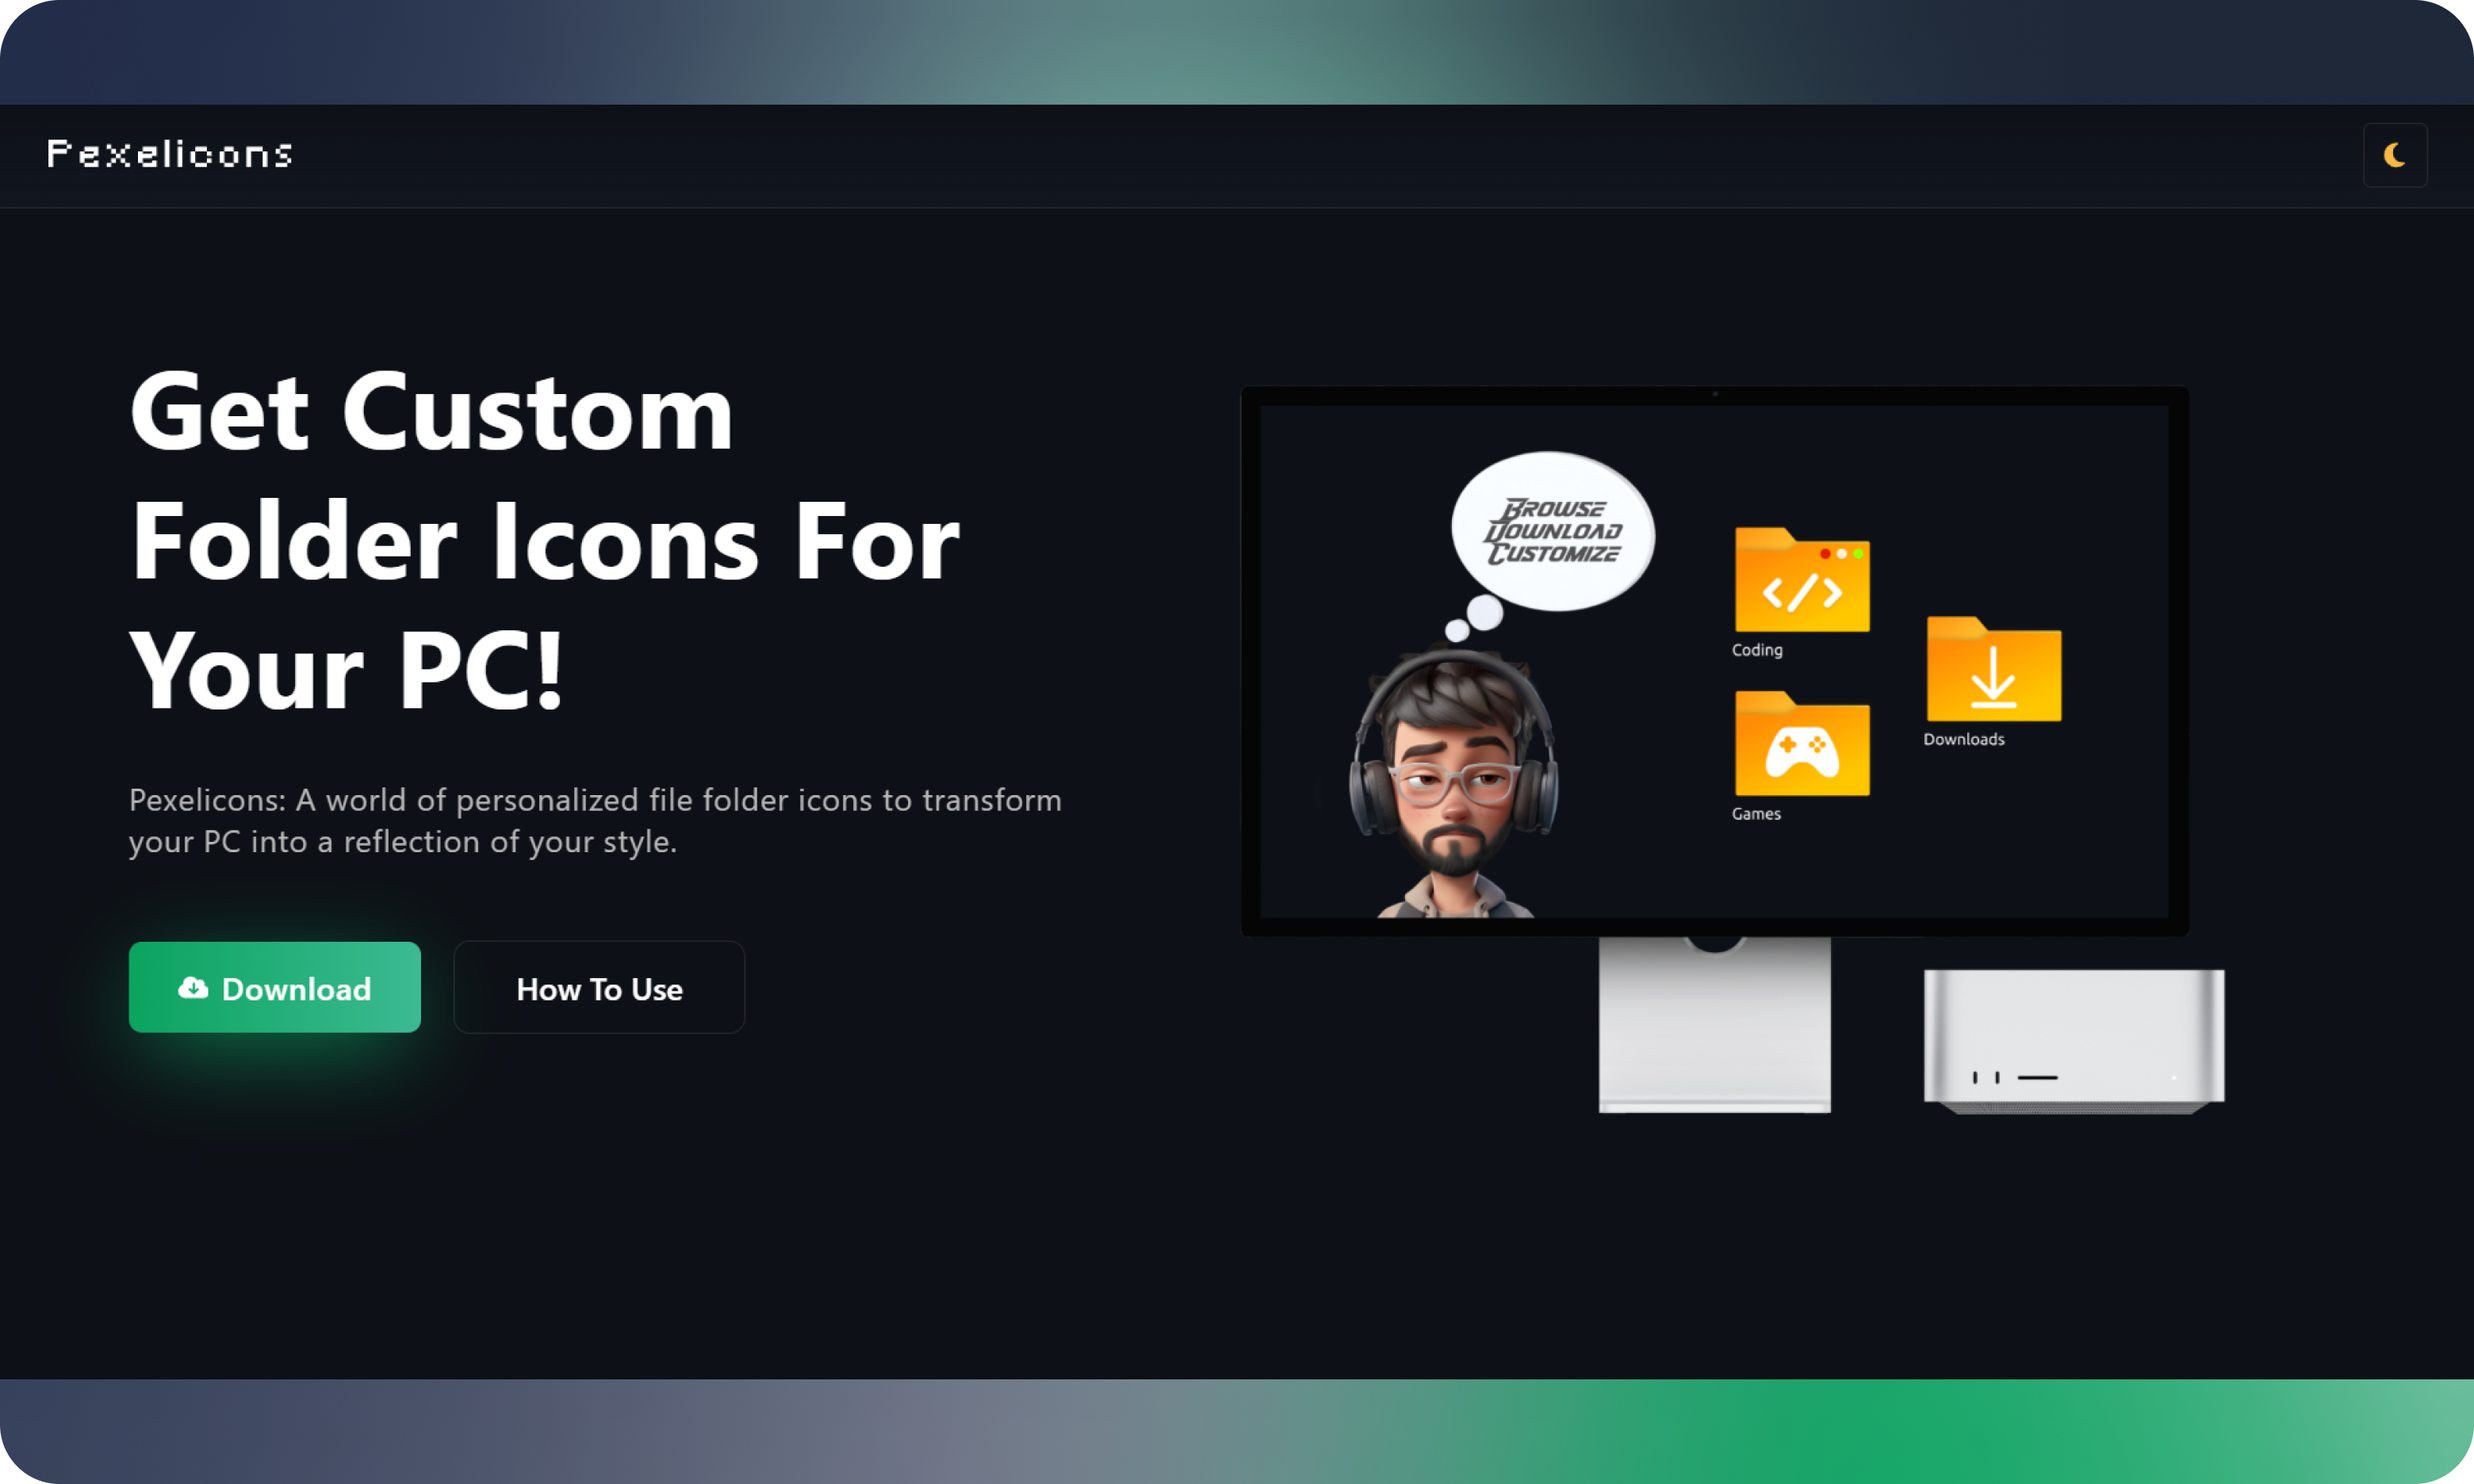
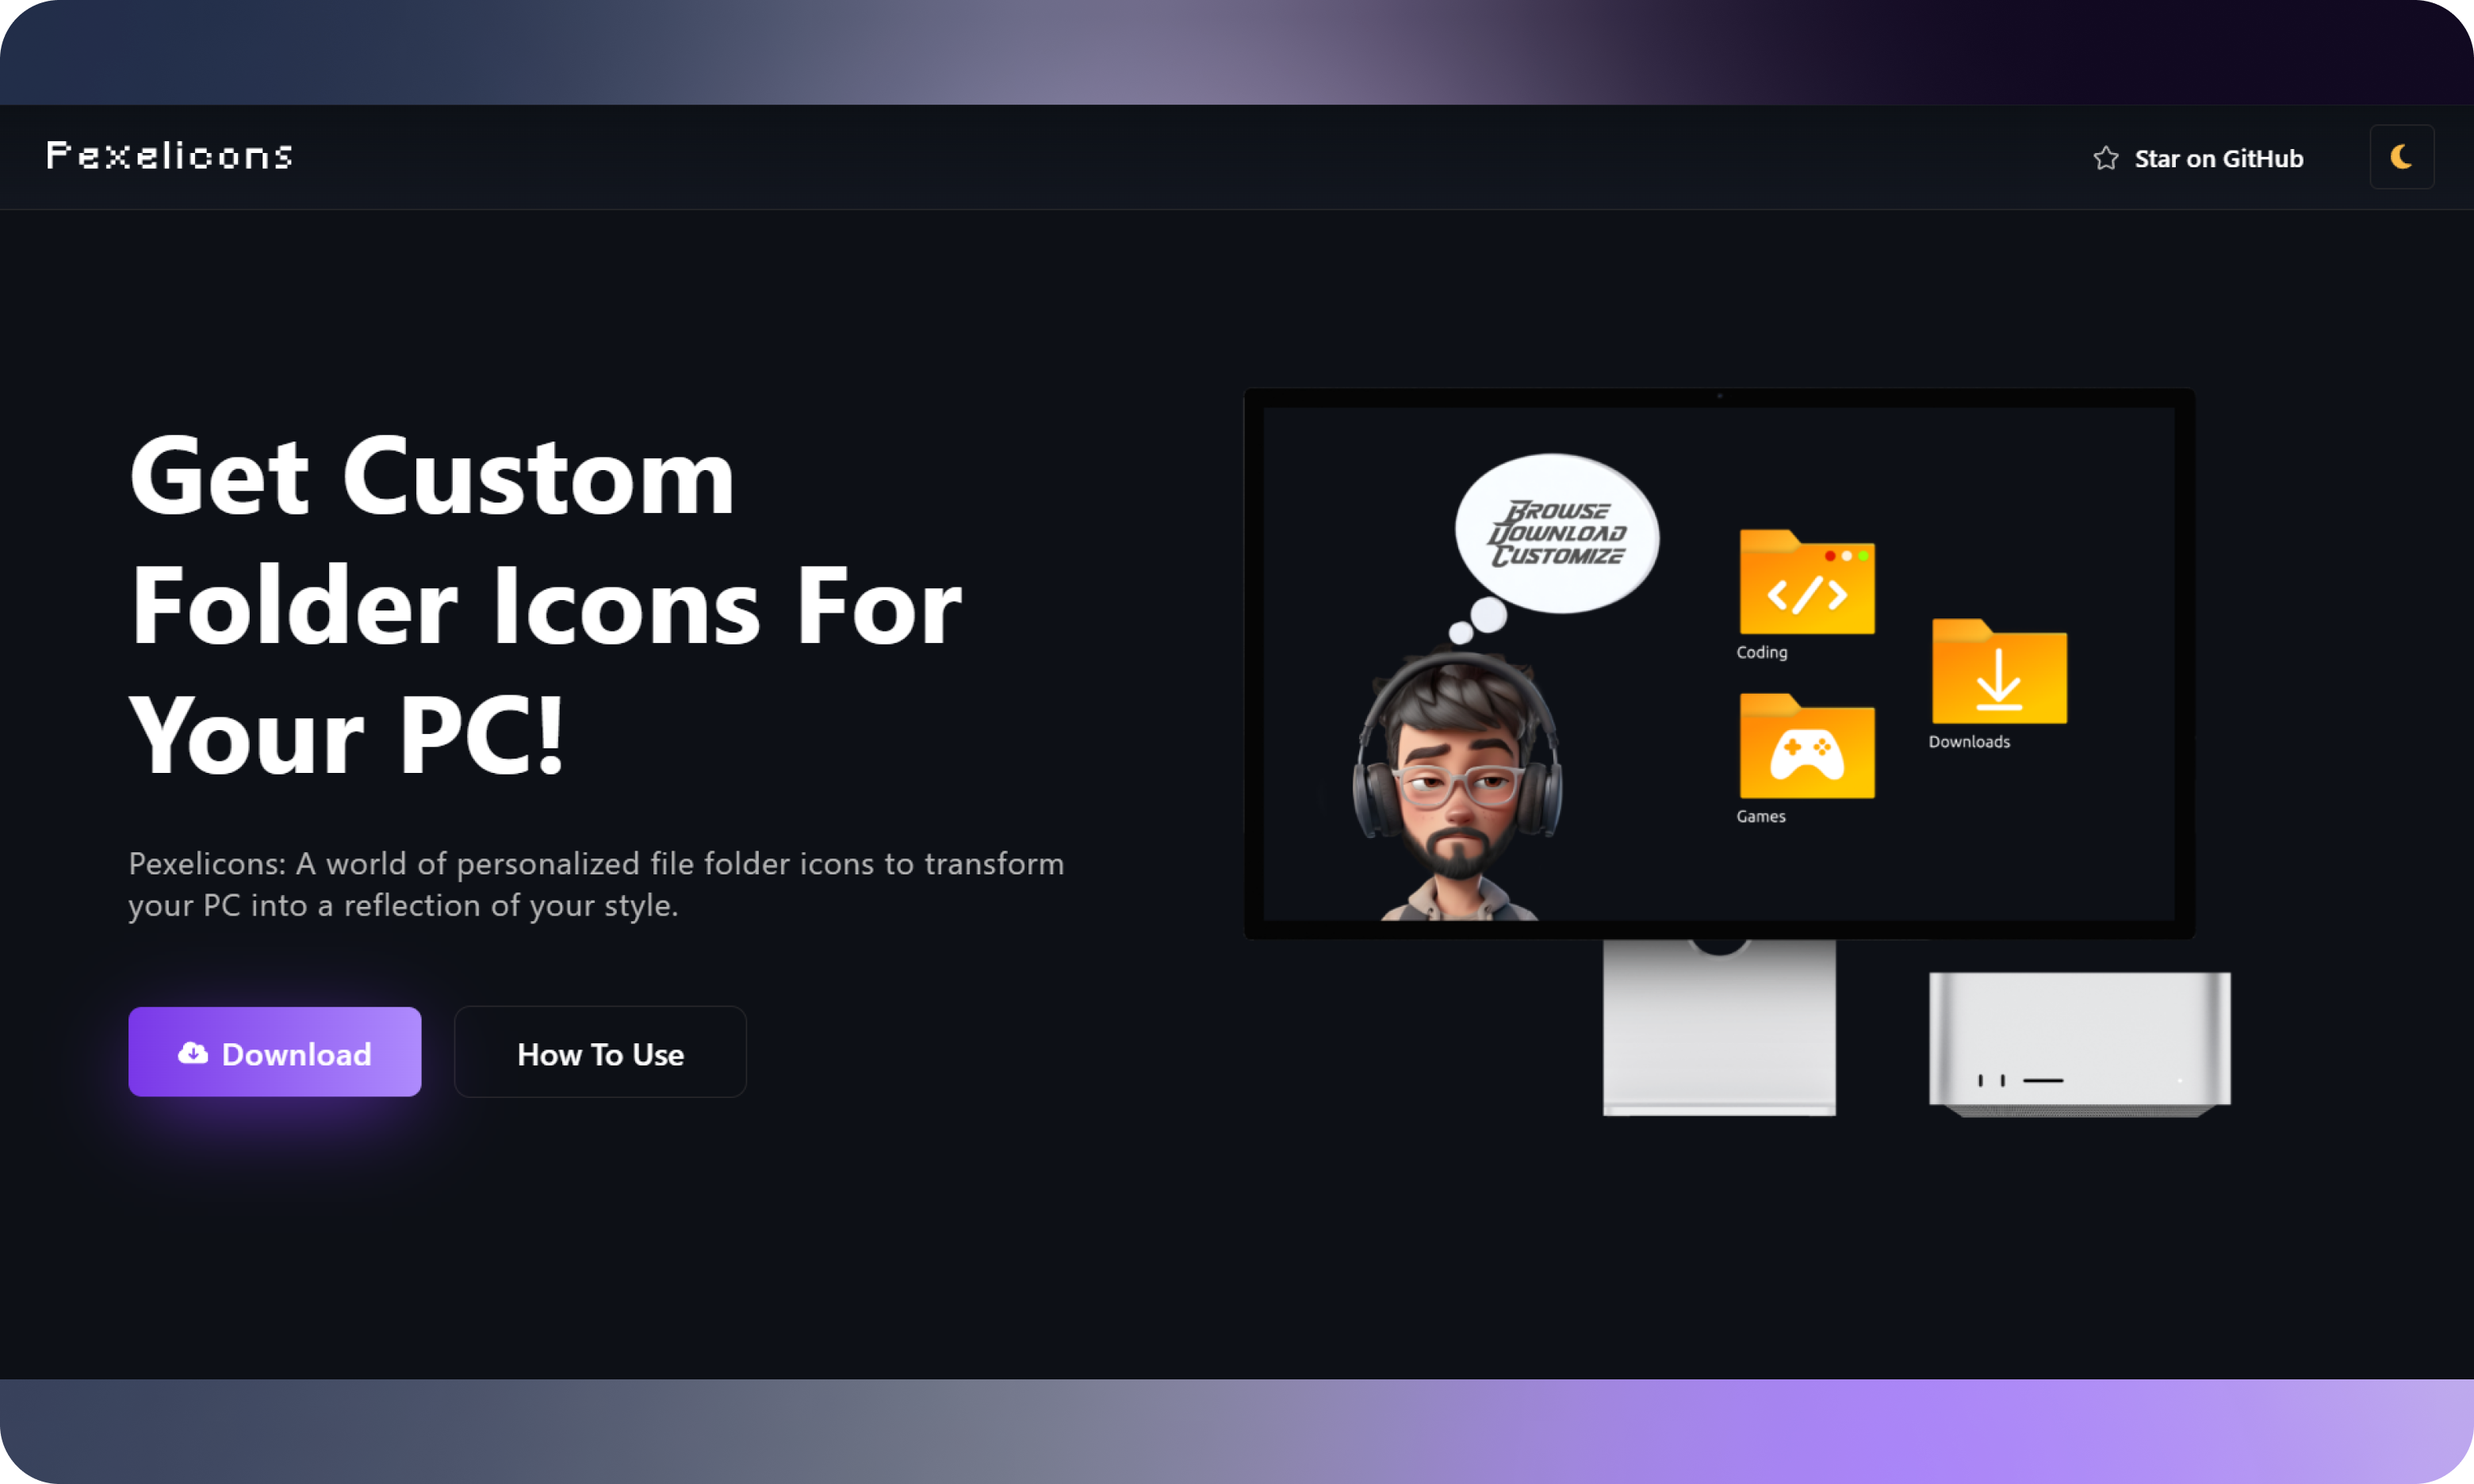
UI Update

diff --git a/preloader.css b/preloader.css
@@ -3,16 +3,26 @@
     width: 100%;
     height: 100vh;
     position: fixed;
-    background-color: #0d1016;
+    background-color: #0a0611;
     top: 0;
     display: flex;
     align-items: center;
     justify-content: center;
+    --border-color: #27272a;
+    --nav-color-one: #0d0d179a;
+    --nav-color-two: #0d0618;
+    --body-color: #0a0611;
+    --dark-text: #101010;
+    --light-text: #ffffff;
+    --light-text-secondary: #b9b9b9;
+    --light-text-desc: #d8d8d8;
+    --primary-theme-color: #7937e8;
+    --secondary-theme-color: #ae8bfd;
 }
 .loader {
     width: 120px;
     aspect-ratio: 1;
-    background: #0d1016;
+    background: #0a0611;
     border-radius: 50%;
     position: relative;
     padding: 4px;
@@ -43,7 +53,7 @@
   .loader .dots-container .dot-row .dot {
     width: 4%;
     aspect-ratio: 1;
-    background: #0ba360;
+    background: #411391;
     border-radius: 50%;
     box-shadow: 0px 0px 5px 0px rgb(255, 255, 255);
   }
@@ -418,16 +428,15 @@
     border-radius: 50%;
     display: grid;
     place-content: center;
-    background: #0ba360;
-    background: linear-gradient(to right,#0ba360,#3cba92);
-    box-shadow: 0px 14px 56px -11px #0ba360;
-    border-right: 1px solid #13cc7c;
-    border-bottom: 1px solid #0ba360;
+    background: var(--primary-theme-color);
+    box-shadow: 0px 14px 56px -11px var(--primary-theme-color);
+    border-right: 1px solid var(--primary-theme-color);
+    border-bottom: 1px solid var(--primary-theme-color);
   }
   
   .loader .center-div .svg {
     width: 15px;
-    fill: #0ba360;
+    fill: var(--primary-theme-color);
   }
   
   .loader .glass {

diff --git a/index.css b/index.css
@@ -53,7 +53,7 @@ html {
     background: #0a0a1002;
 }
 ::-webkit-scrollbar-thumb{
-   background-color: #0ba360;
+   background-color: var(--primary-theme-color);
    border-radius: 2px;
 
 }
@@ -61,13 +61,15 @@ html {
     
     cursor:default;
     --border-color: #27272a;
-    --nav-color-one: #0d11179a;
-    --nav-color-two: #12161f;
-    --body-color: #0d1016;
+    --nav-color-one: #0d0d179a;
+    --nav-color-two: #0d0618;
+    --body-color: #0a0611;
     --dark-text: #101010;
     --light-text: #ffffff;
     --light-text-secondary: #b9b9b9;
     --light-text-desc: #d8d8d8;
+    --primary-theme-color: #7937e8;
+    --secondary-theme-color: #ae8bfd;
 }
 
 body{
@@ -152,7 +154,7 @@ header{
     fill: var(--light-text-secondary);
 }
 .star-on-github-button:hover{
-    color: #0ba360;
+    color: var(--primary-theme-color)
 }
 
 #visual-toggle-button{
@@ -253,9 +255,9 @@ main{
     font-size: 2rem;
     padding: 15px 30px;
     color: white;
-    background: #0ba360;
-    background: linear-gradient(to right,#0ba360,#3cba92);
-    box-shadow: 0px 14px 56px -11px #0ba360;
+    background: var(--primary-theme-color);
+    background: linear-gradient(to right,var(--primary-theme-color),var(--secondary-theme-color));
+    box-shadow: 0px 14px 56px -11px var(--primary-theme-color);
     border: none;
     letter-spacing: 0.05em;
     border-radius: 8px;
@@ -457,7 +459,7 @@ main{
   }
   .footerContainer a{
     text-decoration: none;
-    color: #0ba360;
+    color: var(--secondary-theme-color);
     transition: all .3s;
   }
   .fa-copyright{
